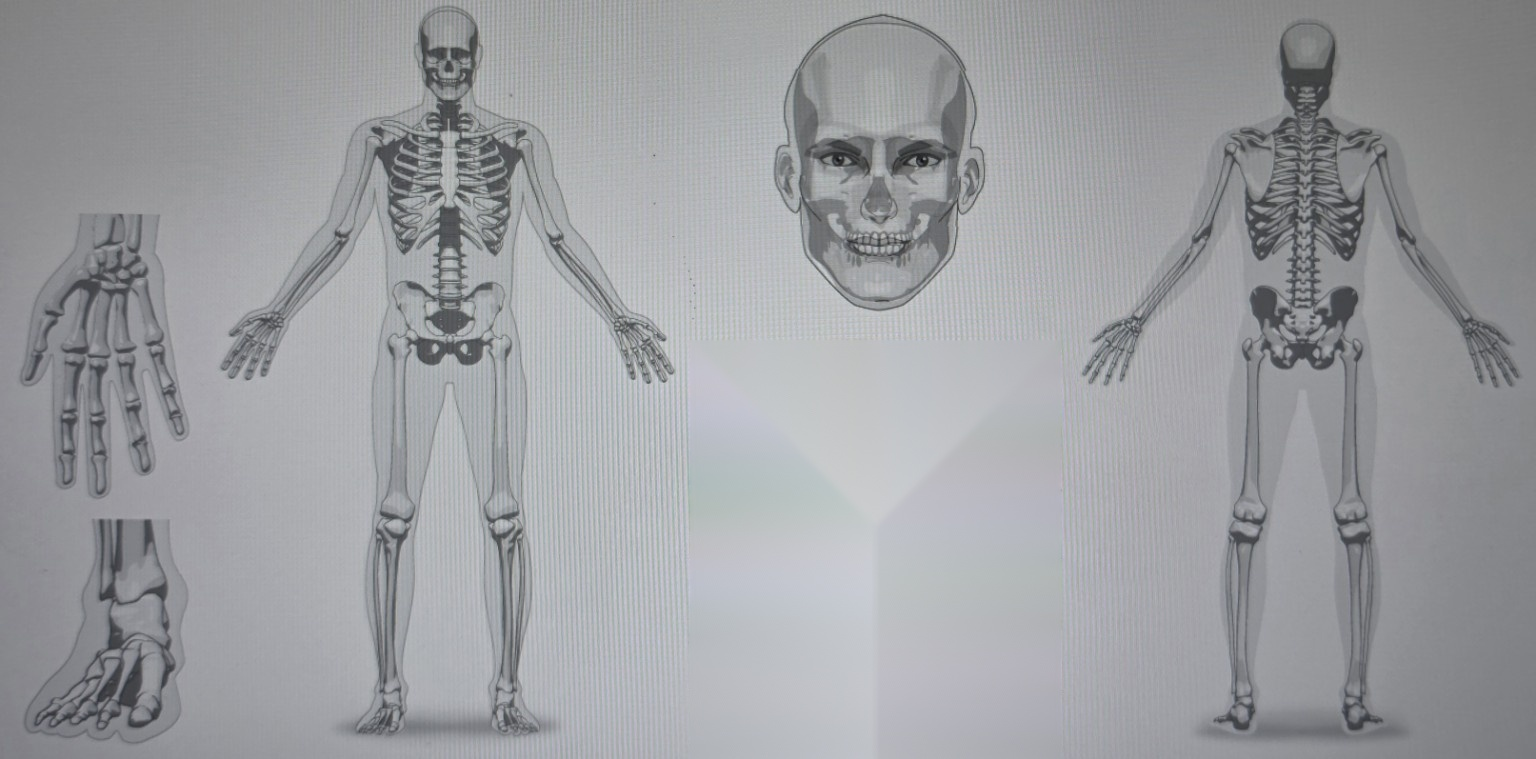
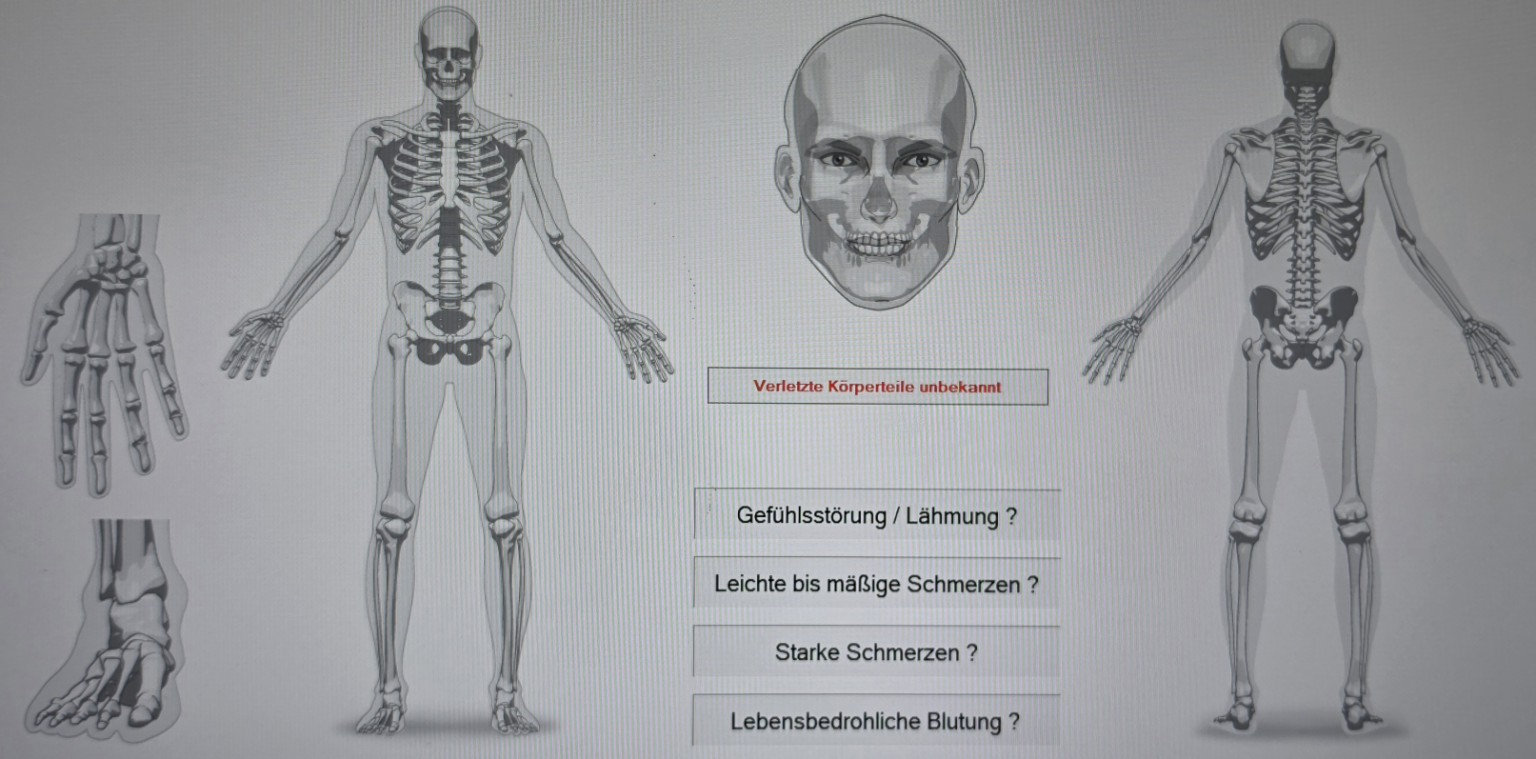
Add files via upload

diff --git a/bodymap.js b/bodymap.js
@@ -167,6 +167,72 @@
   const btl=[['Großzehe',1,976,1100,994,1135],['2. Zehe',2,986,1095,1002,1138],['3. Zehe',3,999,1092,1015,1138],['4. Zehe',4,1012,1092,1028,1139],['5. Zehe',5,1025,1095,1037,1136]];
   btl.forEach(([n,i,x1,y1,x2,y2])=>add(`back_toe_l_${i}`,`${n} links hinten`,poly([[x1,y1],[x1+10,y1-5],[x2,y2],[x1+5,y2+2]])));
 
+  // ---------------- DETAILBEREICHE / REFERENZBILD 83075 ----------------
+  // Die große Körpergrafik wird nur für die großen anatomischen Regionen verwendet.
+  // Kopf/Gesicht sowie Hand- und Fußdetails liegen ausschließlich in den dafür
+  // vorgesehenen Detailbildern des Referenzbildes 83075.jpg.
+  const DETAIL_HIDE = new Set([
+    'front_head','front_forehead','front_temple_r','front_temple_l','front_eye_r','front_eye_l',
+    'front_nose','front_cheek_r','front_cheek_l','front_ear_r','front_ear_l','front_mouth',
+    'front_jaw_r','front_jaw_l','front_chin',
+    'front_wrist_r','front_wrist_l','front_palm_r','front_palm_l',
+    'front_finger_r_1','front_finger_r_2','front_finger_r_3','front_finger_r_4','front_finger_r_5',
+    'front_finger_l_1','front_finger_l_2','front_finger_l_3','front_finger_l_4','front_finger_l_5',
+    'front_ankle_r','front_ankle_l','front_foot_r','front_foot_l',
+    'front_toe_r_1','front_toe_r_2','front_toe_r_3','front_toe_r_4','front_toe_r_5',
+    'front_toe_l_1','front_toe_l_2','front_toe_l_3','front_toe_l_4','front_toe_l_5',
+    'back_head','back_occiput',
+    'back_wrist_r','back_wrist_l','back_palm_r','back_palm_l',
+    'back_finger_r_1','back_finger_r_2','back_finger_r_3','back_finger_r_4','back_finger_r_5',
+    'back_finger_l_1','back_finger_l_2','back_finger_l_3','back_finger_l_4','back_finger_l_5',
+    'back_ankle_r','back_ankle_l','back_foot_r','back_foot_l',
+    'back_toe_r_1','back_toe_r_2','back_toe_r_3','back_toe_r_4','back_toe_r_5'
+  ]);
+  regions.forEach(r=>{ if(DETAIL_HIDE.has(r.id)) r.hidden=true; });
+
+  // Alte 1536x1251-Koordinaten auf die exakt verwendete 1536x759-Referenzgrafik
+  // abbilden. Vorder- und Rückseite liegen im neuen Bild an unterschiedlichen X-Positionen.
+  const FRONT_T='matrix(.82 0 0 .67 123 0)';
+  const BACK_T='matrix(.82 0 0 .67 490 0)';
+  regions.forEach(r=>{
+    if(r.hidden) return;
+    if(r.id.startsWith('front_')) r.transform=FRONT_T;
+    else if(r.id.startsWith('back_')) r.transform=BACK_T;
+  });
+
+  // Gesicht: ausschließlich die große Gesichtsdarstellung in der Bildmitte.
+  add('detail_scalp','Schädeldecke',poly([[820,28],[850,17],[884,14],[916,20],[943,37],[952,72],[946,116],[932,143],[821,143],[806,113],[802,73]]),{burnValue:4.5,detail:true});
+  add('detail_forehead','Stirn',poly([[829,126],[850,112],[878,116],[905,112],[932,126],[925,164],[835,164]]),{detail:true});
+  add('detail_temple_r','Schläfe rechts',poly([[806,140],[828,134],[835,164],[826,192],[807,185]]),{detail:true});
+  add('detail_temple_l','Schläfe links',poly([[930,134],[951,140],[950,185],[932,192],[925,164]]),{detail:true});
+  add('detail_eye_r','Auge rechts',poly([[832,165],[850,158],[870,164],[875,174],[856,181],[837,177]]),{detail:true});
+  add('detail_eye_l','Auge links',poly([[884,164],[903,158],[923,165],[918,177],[899,181],[881,174]]),{detail:true});
+  add('detail_nose','Nase',poly([[872,170],[891,170],[900,205],[892,225],[875,225],[864,205]]),{detail:true});
+  add('detail_jaw_r','Unterkiefer rechts',poly([[811,201],[839,215],[864,231],[858,259],[837,272],[820,254],[809,225]]),{detail:true});
+  add('detail_jaw_l','Unterkiefer links',poly([[915,215],[943,201],[945,225],[934,254],[917,272],[896,259],[890,231]]),{detail:true});
+  add('detail_chin','Kinn',poly([[854,250],[875,258],[895,250],[899,274],[886,294],[866,294],[850,274]]),{detail:true});
+  add('detail_upperjaw_r','Oberkiefer rechts',poly([[838,216],[864,221],[870,241],[854,250],[837,241]]),{detail:true});
+  add('detail_upperjaw_l','Oberkiefer links',poly([[891,221],[917,216],[918,241],[901,250],[885,241]]),{detail:true});
+  add('detail_mouth','Mund',poly([[855,239],[871,235],[886,235],[902,239],[897,253],[883,258],[869,258],[855,253]]),{detail:true});
+
+  // Hand-Detailbild links: keine Hand-/Finger-Hotspots mehr auf dem großen Skelett.
+  add('detail_hand_wrist','Handgelenk',poly([[76,244],[105,238],[139,247],[151,269],[141,292],[105,286],[77,274]]),{detail:true,detailSide:true});
+  add('detail_hand_palm','Handfläche',poly([[57,274],[87,263],[119,276],[145,296],[140,355],[118,381],[83,370],[57,342]]),{detail:true,burnValue:0.7,detailSide:true});
+  const handXs=[
+    ['Daumen',1,45,300,75,354],['Zeigefinger',2,69,290,88,389],['Mittelfinger',3,88,285,108,397],
+    ['Ringfinger',4,108,287,127,391],['Kleiner Finger',5,128,294,145,374]
+  ];
+  handXs.forEach(([n,i,x1,y1,x2,y2])=>add(`detail_hand_finger_${i}`,`${n}`,poly([[x1,y1],[x1+15,y1-5],[x2,y2],[x1+6,y2+4]]),{detail:true,detailSide:true}));
+
+  // Fuß-Detailbild links unten.
+  add('detail_ankle','Knöchel / Sprunggelenk',poly([[83,590],[112,580],[137,594],[139,625],[118,641],[87,628]]),{detail:true,burnValue:.15,detailSide:true});
+  add('detail_foot','Fuß',poly([[50,622],[88,620],[122,633],[154,659],[166,700],[141,720],[96,720],[60,700],[40,665]]),{detail:true,burnValue:.5,detailSide:true});
+  const toeXs=[
+    ['Großzehe',1,111,681,150,711],['2. Zehe',2,93,690,124,724],['3. Zehe',3,77,690,105,726],
+    ['4. Zehe',4,62,688,86,720],['5. Zehe',5,48,681,69,710]
+  ];
+  toeXs.forEach(([n,i,x1,y1,x2,y2])=>add(`detail_toe_${i}`,n,poly([[x1,y1],[x1+16,y1-4],[x2,y2],[x1+6,y2+3]]),{detail:true,detailSide:true}));
+
   // Verletzungsarten – bewusst identisch zum gewünschten Kontextmenü.
   const injuryTypes=[
     'Verletzungsart unklar','Amputation','Bissverletzung','Erfrierung','Fraktur','Luxation',
@@ -215,9 +281,12 @@
   function openMenu(region,anchor,onChange){
     closeMenu();
     const menu=document.createElement('div');menu.className='nabs-injury-menu';
-    menu.innerHTML=`<div class="nabs-injury-menu-title">📍 ${esc(region.label)}</div><div class="nabs-injury-menu-sub">Verletzungsart auswählen</div><div class="nabs-injury-menu-options">${injuryTypes.map(t=>`<button type="button" data-type="${esc(t)}">${esc(t)}</button>`).join('')}</div><div class="nabs-injury-menu-sep"></div><button type="button" class="nabs-menu-reset">Auswahl zurücksetzen</button><button type="button" class="nabs-menu-reset-all">ALLE VERLETZUNGEN ZURÜCKSETZEN</button>`;
+    const sideOptions=region.detailSide?`<div class="nabs-injury-menu-sub">Seite auswählen</div><div class="nabs-injury-menu-options side-options"><button type="button" data-side="rechts">Rechts</button><button type="button" data-side="links">Links</button></div><div class="nabs-injury-menu-sep"></div>`:'';
+    menu.innerHTML=`<div class="nabs-injury-menu-title">📍 ${esc(region.label)}</div>${sideOptions}<div class="nabs-injury-menu-sub">Verletzungsart auswählen</div><div class="nabs-injury-menu-options">${injuryTypes.map(t=>`<button type="button" data-type="${esc(t)}">${esc(t)}</button>`).join('')}</div><div class="nabs-injury-menu-sep"></div><button type="button" class="nabs-menu-reset">Auswahl zurücksetzen</button><button type="button" class="nabs-menu-reset-all">ALLE VERLETZUNGEN ZURÜCKSETZEN</button>`;
     document.body.appendChild(menu);
-    menu.querySelectorAll('[data-type]').forEach(b=>b.onclick=()=>{setDetail(region.id,b.dataset.type);onChange(region.id,b.dataset.type);closeMenu();});
+    let selectedSide='';
+    menu.querySelectorAll('[data-side]').forEach(b=>b.onclick=()=>{selectedSide=b.dataset.side;menu.querySelectorAll('[data-side]').forEach(x=>x.classList.toggle('active',x===b));});
+    menu.querySelectorAll('[data-type]').forEach(b=>b.onclick=()=>{const value=selectedSide?`${b.dataset.type} (${selectedSide})`:b.dataset.type;setDetail(region.id,value);onChange(region.id,value);closeMenu();});
     menu.querySelector('.nabs-menu-reset').onclick=()=>{setDetail(region.id,null);onChange(region.id,null);closeMenu();};
     menu.querySelector('.nabs-menu-reset-all').onclick=()=>{window.__NABS_CLEAR_BODYMAP__?.();closeMenu();};
     const r=anchor.getBoundingClientRect(); const mw=Math.min(340,window.innerWidth-20); const mh=Math.min(560,window.innerHeight-20);
@@ -238,15 +307,9 @@
     window.__NABS_CLEAR_BODYMAP__=()=>{selected.clear();const a=window.__NABS_ANSWERS__;if(a){a.verletzung_v51_koerperkarte=[];a.verletzung_v51_koerperdetails={};}svg.querySelectorAll('.nabs-body-region').forEach(e=>e.classList.remove('selected'));onSummary?.();};
     // Große Regionen zuerst, anatomisch feinere Regionen zuletzt.
     regions.forEach(r=>{
+      if(r.hidden) return;
       const el=document.createElementNS(ns,'path');
-      el.setAttribute('d',r.d);el.setAttribute('class','nabs-body-region');el.setAttribute('tabindex','0');el.setAttribute('role','button');el.setAttribute('aria-label',r.label);el.dataset.region=r.id;
-      // Die neue Referenzgrafik hat ein 1536x759-Koordinatensystem. Die bisher
-      // gezeichneten Körperregionen stammen aus 1536x1251 und werden deshalb
-      // getrennt für Vorder- und Rückseite exakt auf die Referenzkörper gelegt.
-      // Vorderseite: x=1.10*x+17.5, y=0.638*y
-      // Rückseite:    x=x+330,     y=0.638*y
-      if(r.id.startsWith('front_')) el.setAttribute('transform','translate(17.5 0) scale(1.1 0.638)');
-      else if(r.id.startsWith('back_')) el.setAttribute('transform','translate(330 0) scale(1 0.638)');
+      el.setAttribute('d',r.d); if(r.transform) el.setAttribute('transform',r.transform); el.setAttribute('class','nabs-body-region');el.setAttribute('tabindex','0');el.setAttribute('role','button');el.setAttribute('aria-label',r.label);el.dataset.region=r.id;
       if(selected.has(r.id))el.classList.add('selected');
       el.addEventListener('pointermove',e=>showTip(r,e));
       el.addEventListener('pointerleave',hideTip);

diff --git a/ergebnis.html b/ergebnis.html
@@ -10,7 +10,7 @@
 <section class="card"><details><summary>📋 Antworten anzeigen</summary><div id="answers"></div></details></section>
 <div class="nav-row"><button id="pdf">📄 PDF / Drucken</button><button id="new" class="secondary">🏠 Neue Abfrage</button></div>
 <p class="hint">Die Anwendung erstellt einen Dispositionsvorschlag. Die endgültige Disposition und Alarmierung richtet sich nach den örtlichen Vorgaben und der Entscheidung des zuständigen Disponenten.</p></main>
-<script src="bodymap.js?v=20260917v66"></script><script>
+<script src="bodymap.js?v=20260918v68"></script><script>
 const $=id=>document.getElementById(id);
 const esc=s=>String(s??"").replace(/[&<>"']/g,c=>({"&":"&amp;","<":"&lt;",">":"&gt;",'"':"&quot;","'":"&#039;"}[c]));
 const result=(()=>{try{return JSON.parse(sessionStorage.getItem("einsatzabfrage_result")||"null")}catch{return null}})();
@@ -69,9 +69,9 @@ if(!result){location.href="index.html";}else{
     if(!ids.length || !(answers.med_grund==="Verletzung"||answers.med_grund==="Arbeits- / Betriebs- / Schulunfall")) return;
     const details=answers.verletzung_v51_koerperdetails||{};
     const sec=document.createElement("section");sec.className="card result-body-map";
-    sec.innerHTML=`<h3>🩻 Markierte Körperregionen</h3><div class="result-body-map-note">Orange markiert = in der Abfrage ausgewählt. Die Markierung folgt der anatomischen Kontur.</div><div class="result-body-map-stage"><img src="koerperkarte_verbrennung.jpg" alt="Körperschema mit markierten Verletzungsregionen"><svg class="result-body-map-svg" viewBox="0 0 1536 1251" preserveAspectRatio="none" aria-label="Markierte Körperregionen"></svg></div><div class="result-body-map-list">${ids.map(id=>`${esc(injuryMapRegions.find(r=>r.id===id)?.label||id)}${details[id]?` – <strong>${esc(details[id])}</strong>`:""}`).join(" · ")}</div>`;
+    sec.innerHTML=`<h3>🩻 Markierte Körperregionen</h3><div class="result-body-map-note">Orange markiert = in der Abfrage ausgewählt. Die Markierung folgt der anatomischen Kontur.</div><div class="result-body-map-stage"><img src="koerperkarte_verbrennung.jpg" alt="Körperschema mit markierten Verletzungsregionen"><svg class="result-body-map-svg" viewBox="0 0 1536 759" preserveAspectRatio="none" aria-label="Markierte Körperregionen"></svg></div><div class="result-body-map-list">${ids.map(id=>`${esc(injuryMapRegions.find(r=>r.id===id)?.label||id)}${details[id]?` – <strong>${esc(details[id])}</strong>`:""}`).join(" · ")}</div>`;
     const svg=sec.querySelector('.result-body-map-svg'); const ns='http://www.w3.org/2000/svg';
-    ids.forEach(id=>{const r=injuryMapRegions.find(x=>x.id===id);if(!r)return;const el=document.createElementNS(ns,'path');el.setAttribute('d',r.d);el.setAttribute('class','result-body-map-hotspot');svg.appendChild(el)});
+    ids.forEach(id=>{const r=injuryMapRegions.find(x=>x.id===id);if(!r)return;const el=document.createElementNS(ns,'path');el.setAttribute('d',r.d);if(r.transform)el.setAttribute('transform',r.transform);el.setAttribute('class','result-body-map-hotspot');svg.appendChild(el)});
     const dispatchCard=$("dispatch").closest('.card'); dispatchCard.parentNode.insertBefore(sec,dispatchCard.nextSibling);
   }
   addResultBodyMap();
@@ -80,6 +80,6 @@ if(!result){location.href="index.html";}else{
   $("new").onclick=()=>location.href="index.html";
   $("resultLogout").onclick=()=>{sessionStorage.removeItem("einsatzabfrage_result");location.href="index.html";};
   $("resultClose").onclick=()=>location.href="index.html";
-  $("pdf").onclick=()=>{const w=window.open("","_blank");if(!w){alert("Bitte Pop-ups für diese Seite erlauben.");return}const mapIds=Array.isArray(answers.verletzung_v51_koerperkarte)?answers.verletzung_v51_koerperkarte:[];const mapDetails=answers.verletzung_v51_koerperdetails||{};const mapPaths=mapIds.map(id=>{const r=injuryMapRegions.find(x=>x.id===id);return r?`<path d="${r.d}" fill="rgba(255,140,0,.62)" stroke="#ff8c00" stroke-width="4"/>`:""}).join("");const mapHtml=mapIds.length?`<div class="box"><h2>Markierte Körperregionen</h2><p>Orange markiert = in der Abfrage ausgewählt.</p><div style="position:relative;max-width:1080px;margin:auto;background:#444"><img src="koerperkarte_verbrennung.jpg" style="display:block;width:100%;height:auto"><svg viewBox="0 0 1536 1251" preserveAspectRatio="none" style="position:absolute;inset:0;width:100%;height:100%">${mapPaths}</svg></div><p><b>Auswahl:</b> ${mapIds.map(id=>`${esc(injuryMapRegions.find(r=>r.id===id)?.label||id)}${mapDetails[id]?` – ${esc(mapDetails[id])}`:""}`).join(" · ")}</p></div>`:"";const isBurn=["Verbrennung / Verbrühung","Verätzungen"].includes(String(answers.verletzung_v49_mechanismus||""));const vk=isBurn?Math.min(100,mapIds.reduce((sum,id)=>sum+(Number(injuryMapRegions.find(r=>r.id===id)?.burnValue)||0),0)):0;w.document.write(`<html><head><title>Einsatzabfrage – Ergebnis</title><style>body{font-family:Arial,sans-serif;padding:24px;line-height:1.45}.box{border:1px solid #aaa;border-radius:8px;padding:12px;margin:12px 0}.alarm{font-weight:700;border:2px solid #900;padding:10px}h2{margin-bottom:8px}</style></head><body><h1>Einsatzabfrage – Ergebnis</h1><div class="box"><b>${esc(result.categoryTitle||"Einsatz")}</b><br>${esc(result.createdAt?new Date(result.createdAt).toLocaleString("de-DE"):"")}<br><b>Abfragedauer:</b> ${esc(result.abfragedauer||"00:00")}</div><div class="box"><h2>Einsatzstichwort</h2>${esc(stichwort?.code||"")} – ${esc(stichwort?.name||"")}</div><div class="box ${reasons.length?"alarm":""}"><h2>Notarzt / NEF</h2>${reasons.length?"NEF / Notarzt – hinterlegtes Kriterium ausgelöst<br>"+reasons.map(esc).join("<br>"):"Keine hinterlegte Notarztregel ausgelöst."}</div><div class="box"><h2>Alarmierungsvorschlag</h2>RTW: ${alarm.rtw?"Vorschlag":"nicht abgeleitet"}<br>NEF: ${alarm.nef?"Vorschlag":"nicht ausgelöst"}<br>Feuerwehr: ${alarm.feuerwehr?"Vorschlag / prüfen":"nicht abgeleitet"}<br>Polizei: ${alarm.polizei?"Vorschlag / prüfen":"nicht abgeleitet"}</div><div class="box"><h2>Alarmmittelvorschlag</h2>${resources.map(x=>"<div>"+esc(x)+"</div>").join("")}</div><div class="box"><h2>Einsatztext</h2>${esc(dispatch)}</div>${isBurn&&mapIds.length?`<div class="box"><h2>VKOF – orientierende Schätzung</h2>ca. ${vk.toLocaleString("de-DE",{minimumFractionDigits:1,maximumFractionDigits:1})} %</div>`:""}${mapHtml}<div class="box"><h2>Abfragebemerkung</h2>${esc(remark||"Keine")}</div><script>window.onload=()=>window.print();<\/script></body></html>`);w.document.close();};
+  $("pdf").onclick=()=>{const w=window.open("","_blank");if(!w){alert("Bitte Pop-ups für diese Seite erlauben.");return}const mapIds=Array.isArray(answers.verletzung_v51_koerperkarte)?answers.verletzung_v51_koerperkarte:[];const mapDetails=answers.verletzung_v51_koerperdetails||{};const mapPaths=mapIds.map(id=>{const r=injuryMapRegions.find(x=>x.id===id);return r?`<path d="${r.d}" ${r.transform?`transform="${r.transform}"`:""} fill="rgba(255,140,0,.62)" stroke="#ff8c00" stroke-width="4"/>`:""}).join("");const mapHtml=mapIds.length?`<div class="box"><h2>Markierte Körperregionen</h2><p>Orange markiert = in der Abfrage ausgewählt.</p><div style="position:relative;max-width:1080px;margin:auto;background:#444"><img src="koerperkarte_verbrennung.jpg" style="display:block;width:100%;height:auto"><svg viewBox="0 0 1536 759" preserveAspectRatio="none" style="position:absolute;inset:0;width:100%;height:100%">${mapPaths}</svg></div><p><b>Auswahl:</b> ${mapIds.map(id=>`${esc(injuryMapRegions.find(r=>r.id===id)?.label||id)}${mapDetails[id]?` – ${esc(mapDetails[id])}`:""}`).join(" · ")}</p></div>`:"";const isBurn=["Verbrennung / Verbrühung","Verätzungen"].includes(String(answers.verletzung_v49_mechanismus||""));const vk=isBurn?Math.min(100,mapIds.reduce((sum,id)=>sum+(Number(injuryMapRegions.find(r=>r.id===id)?.burnValue)||0),0)):0;w.document.write(`<html><head><title>Einsatzabfrage – Ergebnis</title><style>body{font-family:Arial,sans-serif;padding:24px;line-height:1.45}.box{border:1px solid #aaa;border-radius:8px;padding:12px;margin:12px 0}.alarm{font-weight:700;border:2px solid #900;padding:10px}h2{margin-bottom:8px}</style></head><body><h1>Einsatzabfrage – Ergebnis</h1><div class="box"><b>${esc(result.categoryTitle||"Einsatz")}</b><br>${esc(result.createdAt?new Date(result.createdAt).toLocaleString("de-DE"):"")}<br><b>Abfragedauer:</b> ${esc(result.abfragedauer||"00:00")}</div><div class="box"><h2>Einsatzstichwort</h2>${esc(stichwort?.code||"")} – ${esc(stichwort?.name||"")}</div><div class="box ${reasons.length?"alarm":""}"><h2>Notarzt / NEF</h2>${reasons.length?"NEF / Notarzt – hinterlegtes Kriterium ausgelöst<br>"+reasons.map(esc).join("<br>"):"Keine hinterlegte Notarztregel ausgelöst."}</div><div class="box"><h2>Alarmierungsvorschlag</h2>RTW: ${alarm.rtw?"Vorschlag":"nicht abgeleitet"}<br>NEF: ${alarm.nef?"Vorschlag":"nicht ausgelöst"}<br>Feuerwehr: ${alarm.feuerwehr?"Vorschlag / prüfen":"nicht abgeleitet"}<br>Polizei: ${alarm.polizei?"Vorschlag / prüfen":"nicht abgeleitet"}</div><div class="box"><h2>Alarmmittelvorschlag</h2>${resources.map(x=>"<div>"+esc(x)+"</div>").join("")}</div><div class="box"><h2>Einsatztext</h2>${esc(dispatch)}</div>${isBurn&&mapIds.length?`<div class="box"><h2>VKOF – orientierende Schätzung</h2>ca. ${vk.toLocaleString("de-DE",{minimumFractionDigits:1,maximumFractionDigits:1})} %</div>`:""}${mapHtml}<div class="box"><h2>Abfragebemerkung</h2>${esc(remark||"Keine")}</div><script>window.onload=()=>window.print();<\/script></body></html>`);w.document.close();};
 }
 </script></body></html>

diff --git a/abfrage.html b/abfrage.html
@@ -7,4 +7,4 @@
   <button id="exitBtn" type="button" class="action-exit">⏹ Ausstieg</button>
 </div></div>
 <div id="modalRoot"></div>
-<script src="bodymap.js?v=20260917v68"></script><script type="module" src="abfrage.js?v=20260917v66"></script><script type="module">import{logout}from"./firebase-rest.js?v=20260915v39";document.getElementById("abfrageLogout").onclick=()=>{logout();location.href="index.html"};document.getElementById("abfrageClose").onclick=()=>{location.href="index.html"};</script></body></html>
+<script src="bodymap.js?v=20260918v68"></script><script type="module" src="abfrage.js?v=20260918v68"></script><script type="module">import{logout}from"./firebase-rest.js?v=20260915v39";document.getElementById("abfrageLogout").onclick=()=>{logout();location.href="index.html"};document.getElementById("abfrageClose").onclick=()=>{location.href="index.html"};</script></body></html>

diff --git a/style.css b/style.css
@@ -300,9 +300,7 @@ body.abfrage-page{padding-bottom:155px;touch-action:pan-y}
 .nabs-body-region.selected{fill:rgba(255,140,0,.62);stroke:#ff8c00;stroke-width:4}
 @media(max-width:760px){.nabs-body-region.selected{stroke-width:5}.nabs-body-tooltip{font-size:13px}}
 
-/* V68: Referenzgrafik 1536x759 + exakt kalibrierte Vorder-/Rückseite */
-.injury-map-stage{width:min(100%,1100px);}
-.injury-map-svg{aspect-ratio:1536 / 759;}
-
 /* V66: Präzise Hover-Beschriftung der anatomischen SVG-Region */
 .nabs-body-tooltip{position:fixed;z-index:100000;pointer-events:none;background:#171b21;color:#fff;border:1px solid #ff8c00;border-radius:6px;padding:6px 9px;font-size:14px;font-weight:700;line-height:1.2;box-shadow:0 6px 18px rgba(0,0,0,.4);white-space:nowrap}
+
+.nabs-injury-menu .side-options button.active{background:#e8f0ff;font-weight:800;outline:2px solid #315bd6;outline-offset:-2px}
